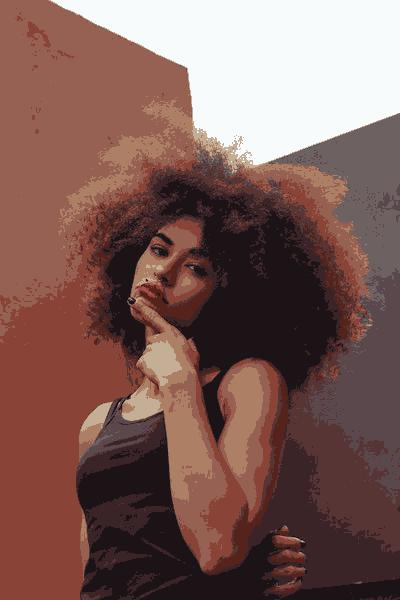
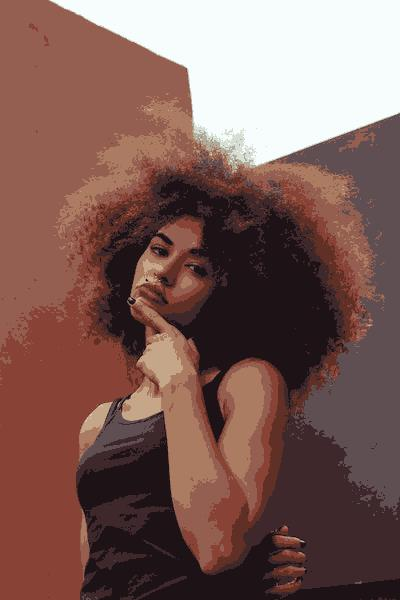
Update documentation

diff --git a/main.py b/main.py
@@ -1,5 +1,10 @@
-import sys
+# Arguments list
+#
+# -r            Use randomly placed clusters instead of uniformly distributed.
+# -c [number]   Specify the number of randomly placed clusters.
+# -f [number]   Specify the number (after being raised to the power of 3) of uniformly distributed clusters.
 
+import sys
 import matplotlib.pyplot as plt
 import numpy as np
 from PIL import Image
@@ -43,6 +48,7 @@ while count != next_check:
     for cluster in stock_clusters:
         cluster.clear_cluster_keep_position()
 
+    print("----------------")
     print(f"Run no. {count}")
 
     for r, row in tqdm(enumerate(im), initial=0, unit_scale=True):

diff --git a/README.md b/README.md
@@ -16,10 +16,6 @@ Photo by Bruno Thethe from Pexels (Resized to 400x600)
 
 ### Post pixels grouping
 
-Consists of 12 colours only 
+Consists of 11 colours only
 
 ![Post pixels grouping](examples/output/paint_bruno.jpg)
-
-### Post blur
-
-![Post blur](examples/output/paint_bruno_blur.jpg)
